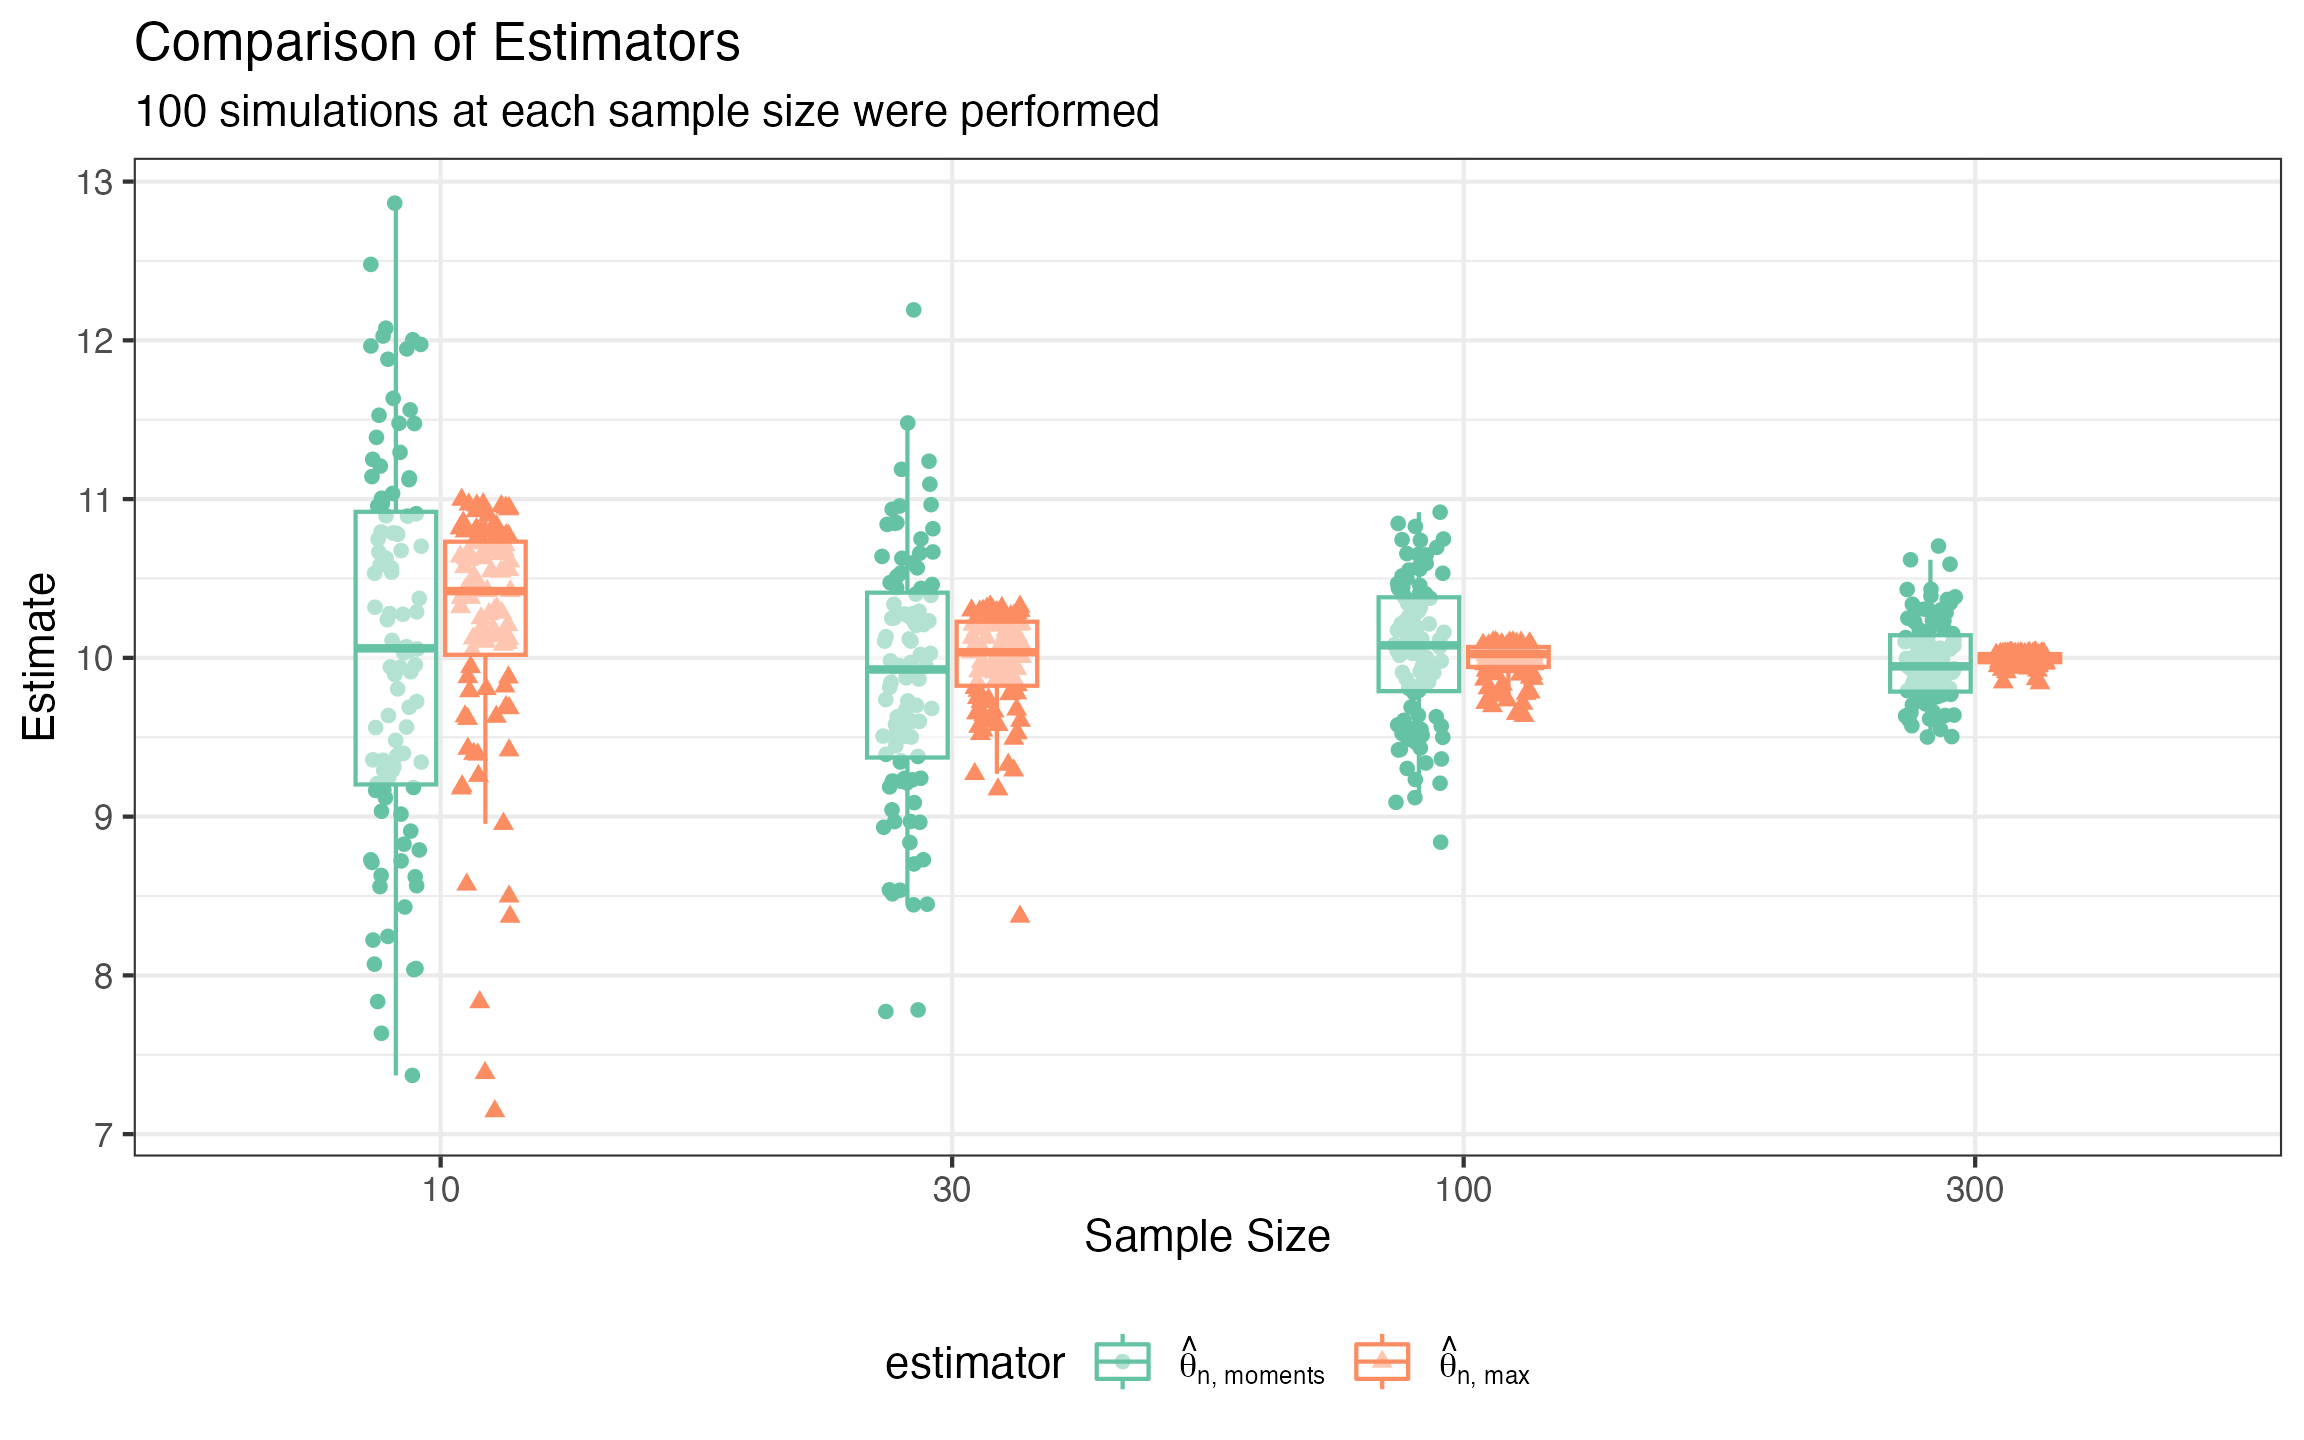
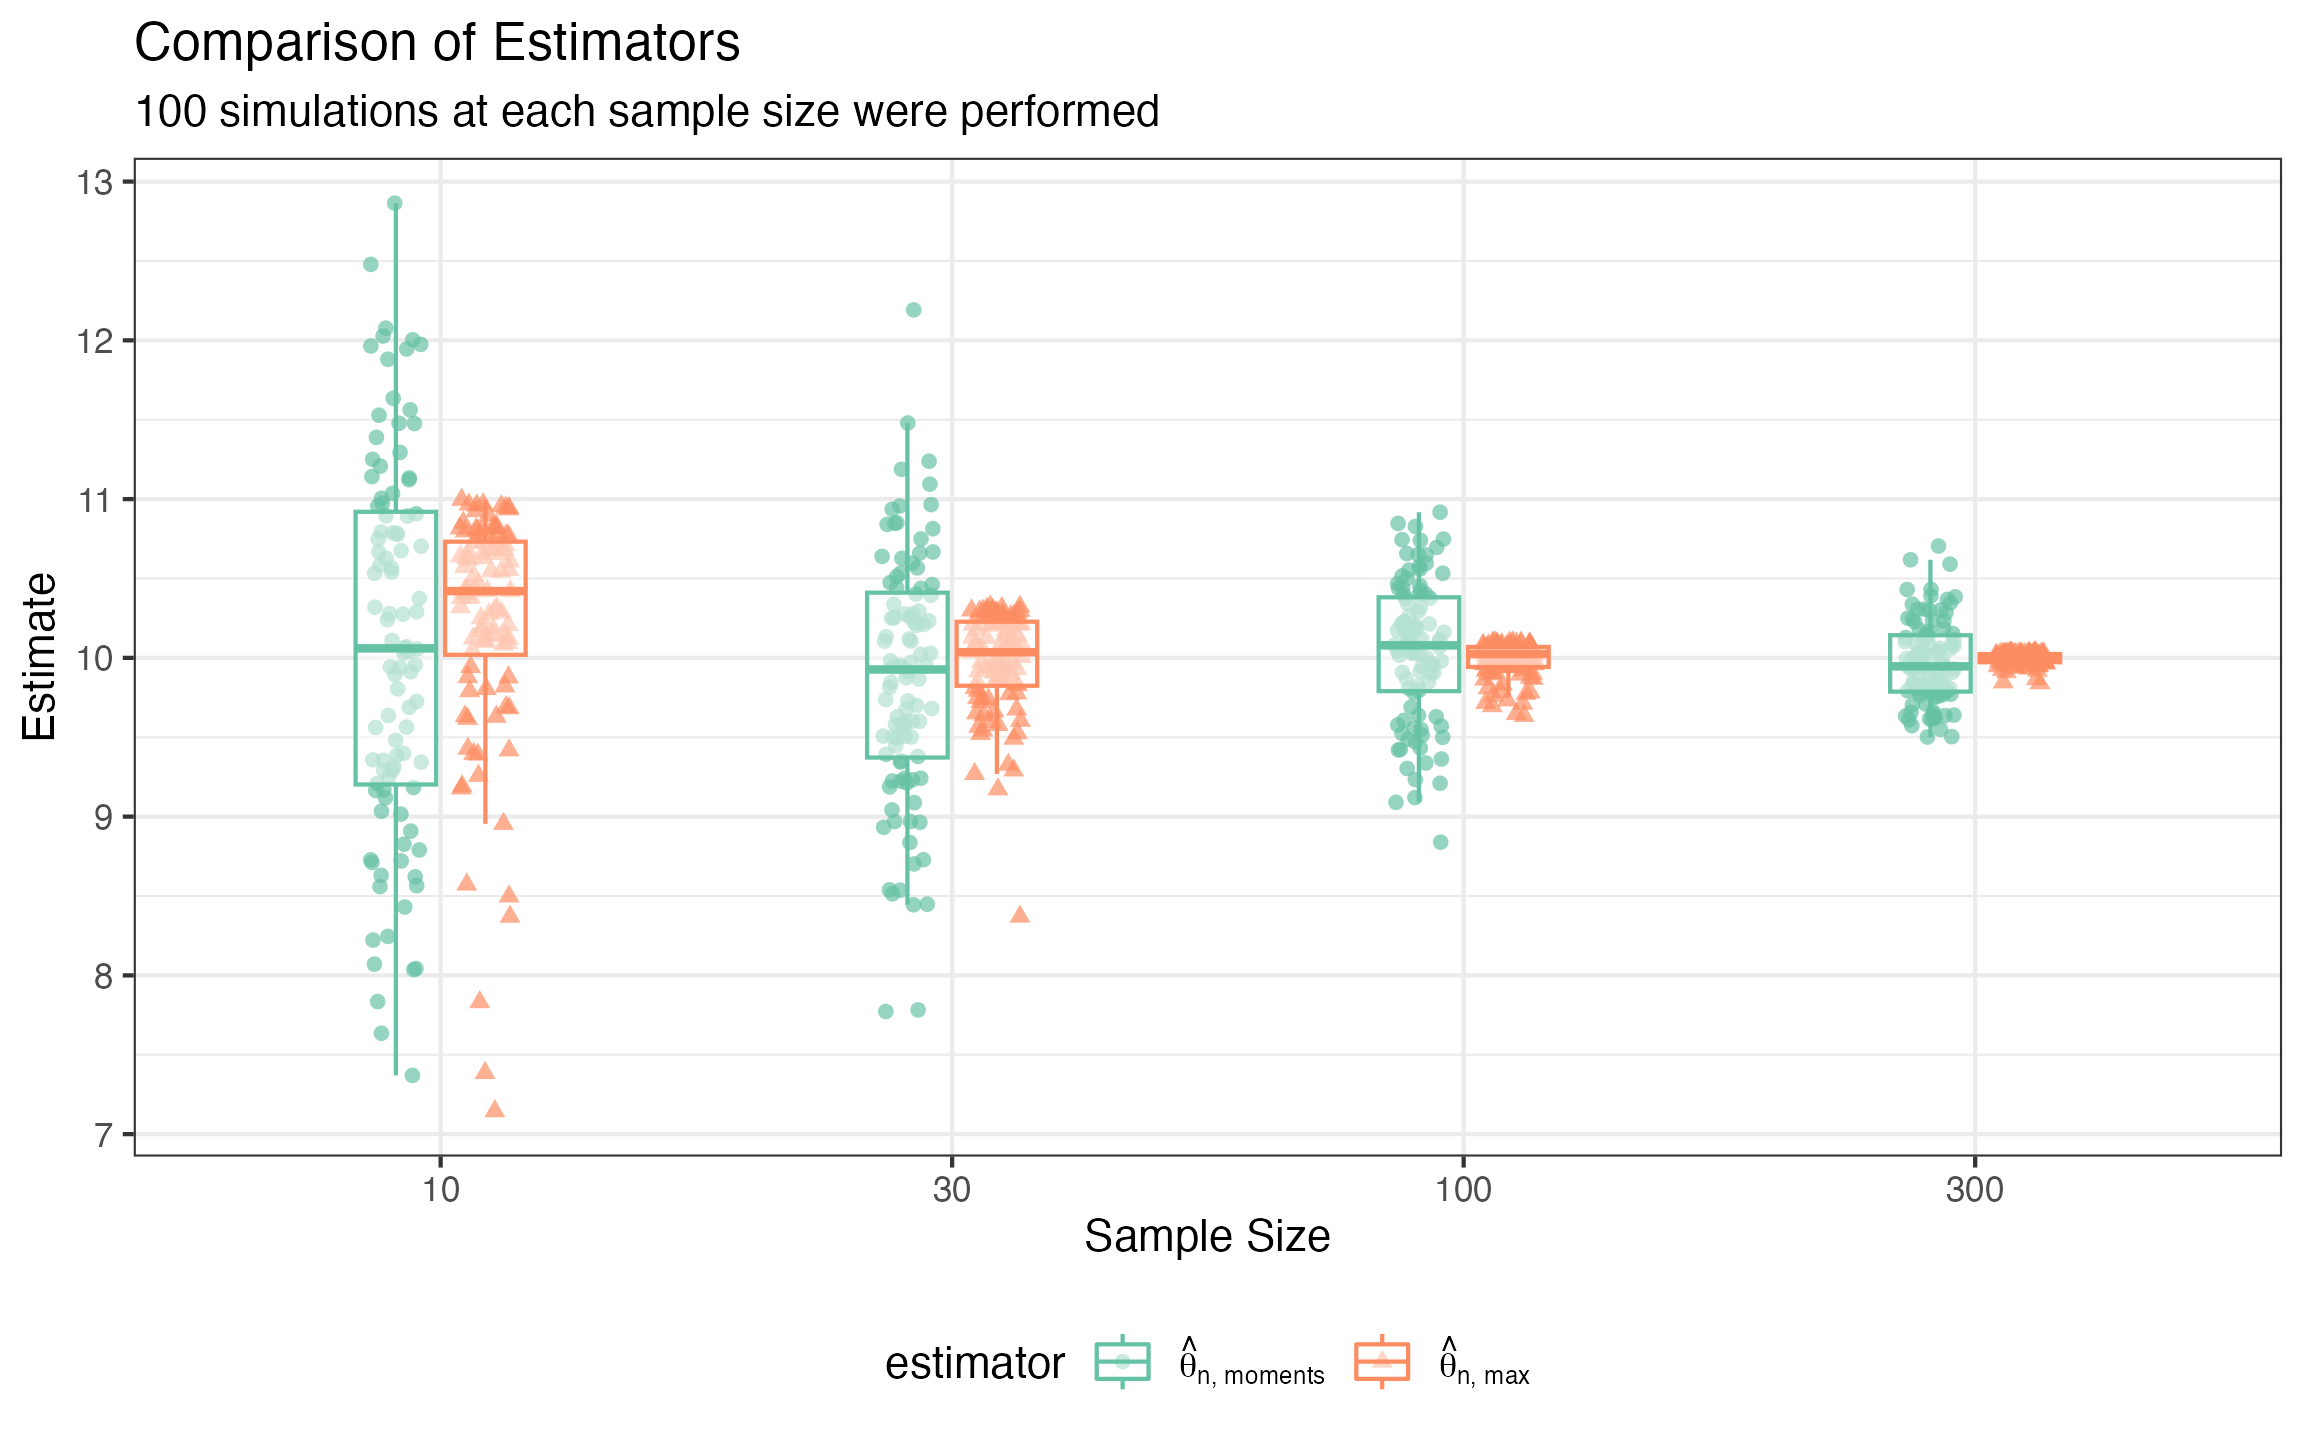
Add run_simulation_study()

diff --git a/docs/reference/run_simulation_study.html b/docs/reference/run_simulation_study.html
@@ -1,0 +1,90 @@
+<!DOCTYPE html>
+<!-- Generated by pkgdown: do not edit by hand --><html lang="en"><head><meta http-equiv="Content-Type" content="text/html; charset=UTF-8"><meta charset="utf-8"><meta http-equiv="X-UA-Compatible" content="IE=edge"><meta name="viewport" content="width=device-width, initial-scale=1, shrink-to-fit=no"><title>Simulation Study — run_simulation_study • Simulacron3</title><!-- favicons --><link rel="icon" type="image/png" sizes="16x16" href="../favicon-16x16.png"><link rel="icon" type="image/png" sizes="32x32" href="../favicon-32x32.png"><link rel="apple-touch-icon" type="image/png" sizes="180x180" href="../apple-touch-icon.png"><link rel="apple-touch-icon" type="image/png" sizes="120x120" href="../apple-touch-icon-120x120.png"><link rel="apple-touch-icon" type="image/png" sizes="76x76" href="../apple-touch-icon-76x76.png"><link rel="apple-touch-icon" type="image/png" sizes="60x60" href="../apple-touch-icon-60x60.png"><script src="../deps/jquery-3.6.0/jquery-3.6.0.min.js"></script><meta name="viewport" content="width=device-width, initial-scale=1, shrink-to-fit=no"><link href="../deps/bootstrap-5.3.1/bootstrap.min.css" rel="stylesheet"><script src="../deps/bootstrap-5.3.1/bootstrap.bundle.min.js"></script><link href="../deps/font-awesome-6.4.0/css/all.min.css" rel="stylesheet"><link href="../deps/font-awesome-6.4.0/css/v4-shims.min.css" rel="stylesheet"><script src="../deps/headroom-0.11.0/headroom.min.js"></script><script src="../deps/headroom-0.11.0/jQuery.headroom.min.js"></script><script src="../deps/bootstrap-toc-1.0.1/bootstrap-toc.min.js"></script><script src="../deps/clipboard.js-2.0.11/clipboard.min.js"></script><script src="../deps/search-1.0.0/autocomplete.jquery.min.js"></script><script src="../deps/search-1.0.0/fuse.min.js"></script><script src="../deps/search-1.0.0/mark.min.js"></script><!-- pkgdown --><script src="../pkgdown.js"></script><meta property="og:title" content="Simulation Study — run_simulation_study"><meta name="description" content="Often we are interested in seeing how estimators perform as we vary the
+sample size. Additionally, support through ... is allowed for passing any
+extra configuration options to the simulation"><meta property="og:description" content="Often we are interested in seeing how estimators perform as we vary the
+sample size. Additionally, support through ... is allowed for passing any
+extra configuration options to the simulation"><meta property="og:image" content="https://ctesta01.github.io/Simulacron3/logo.png"><style> img.logo { width: 200px !important; } </style></head><body>
+    <a href="#main" class="visually-hidden-focusable">Skip to contents</a>
+
+
+    <nav class="navbar navbar-expand-lg fixed-top bg-light" data-bs-theme="light" aria-label="Site navigation"><div class="container">
+
+    <a class="navbar-brand me-2" href="../index.html">Simulacron3</a>
+
+    <small class="nav-text text-muted me-auto" data-bs-toggle="tooltip" data-bs-placement="bottom" title="">0.0.001</small>
+
+
+    <button class="navbar-toggler" type="button" data-bs-toggle="collapse" data-bs-target="#navbar" aria-controls="navbar" aria-expanded="false" aria-label="Toggle navigation">
+      <span class="navbar-toggler-icon"></span>
+    </button>
+
+    <div id="navbar" class="collapse navbar-collapse ms-3">
+      <ul class="navbar-nav me-auto"><li class="active nav-item"><a class="nav-link" href="../reference/index.html">Reference</a></li>
+<li class="nav-item dropdown">
+  <button class="nav-link dropdown-toggle" type="button" id="dropdown-articles" data-bs-toggle="dropdown" aria-expanded="false" aria-haspopup="true">Articles</button>
+  <ul class="dropdown-menu" aria-labelledby="dropdown-articles"><li><a class="dropdown-item" href="../articles/Comparing-Estimators.html">Comparing Estimators</a></li>
+  </ul></li>
+      </ul><ul class="navbar-nav"><li class="nav-item"><form class="form-inline" role="search">
+ <input class="form-control" type="search" name="search-input" id="search-input" autocomplete="off" aria-label="Search site" placeholder="Search for" data-search-index="../search.json"></form></li>
+      </ul></div>
+
+
+  </div>
+</nav><div class="container template-reference-topic">
+<div class="row">
+  <main id="main" class="col-md-9"><div class="page-header">
+      <img src="../logo.png" class="logo" alt=""><h1>Simulation Study</h1>
+
+      <div class="d-none name"><code>run_simulation_study.Rd</code></div>
+    </div>
+
+    <div class="ref-description section level2">
+    <p>Often we are interested in seeing how estimators perform as we vary the
+sample size. Additionally, support through <code>...</code> is allowed for passing any
+extra configuration options to the simulation</p>
+    </div>
+
+    <div class="section level2">
+    <h2 id="ref-usage">Usage<a class="anchor" aria-label="anchor" href="#ref-usage"></a></h2>
+    <div class="sourceCode"><pre class="sourceCode r"><code><span><span class="fu">run_simulation_study</span><span class="op">(</span><span class="va">sim</span>, <span class="va">sample_sizes</span>, extra_config_changes <span class="op">=</span> <span class="cn">NULL</span><span class="op">)</span></span></code></pre></div>
+    </div>
+
+    <div class="section level2">
+    <h2 id="arguments">Arguments<a class="anchor" aria-label="anchor" href="#arguments"></a></h2>
+
+
+<dl><dt id="arg-sim">sim<a class="anchor" aria-label="anchor" href="#arg-sim"></a></dt>
+<dd><p>A <code><a href="Simulation.html">Simulacron3::Simulation</a></code> object</p></dd>
+
+
+<dt id="arg-sample-sizes">sample_sizes<a class="anchor" aria-label="anchor" href="#arg-sample-sizes"></a></dt>
+<dd><p>Sample sizes (integers) to simulate</p></dd>
+
+
+<dt id="arg-extra-config-changes">extra_config_changes<a class="anchor" aria-label="anchor" href="#arg-extra-config-changes"></a></dt>
+<dd><p>Any additional config changes that are needed during
+simulation; should be iterable and of the same length as sample_sizes.
+the ith extra_config_changes</p></dd>
+
+</dl></div>
+
+  </main><aside class="col-md-3"><nav id="toc" aria-label="Table of contents"><h2>On this page</h2>
+    </nav></aside></div>
+
+
+    <footer><div class="pkgdown-footer-left">
+  <p>Developed by Christian Testa.</p>
+</div>
+
+<div class="pkgdown-footer-right">
+  <p>Site built with <a href="https://pkgdown.r-lib.org/" class="external-link">pkgdown</a> 2.1.1.</p>
+</div>
+
+    </footer></div>
+
+
+
+
+
+  </body></html>
+

diff --git a/docs/articles/Comparing-Estimators.html b/docs/articles/Comparing-Estimators.html
@@ -128,16 +128,10 @@ order statistic based estimator empirically using
 <span></span>
 <span><span class="co"># run the simulation over a variety of sample sizes</span></span>
 <span><span class="va">sample_sizes</span> <span class="op">&lt;-</span> <span class="fu"><a href="https://rdrr.io/r/base/c.html" class="external-link">c</a></span><span class="op">(</span><span class="fl">10</span>, <span class="fl">30</span>, <span class="fl">100</span>, <span class="fl">300</span><span class="op">)</span></span>
-<span><span class="kw">for</span> <span class="op">(</span><span class="va">i</span> <span class="kw">in</span> <span class="fl">1</span><span class="op">:</span><span class="fu"><a href="https://rdrr.io/r/base/length.html" class="external-link">length</a></span><span class="op">(</span><span class="va">sample_sizes</span><span class="op">)</span><span class="op">)</span> <span class="op">{</span></span>
-<span>  <span class="va">sim</span><span class="op">$</span><span class="fu">set_config</span><span class="op">(</span><span class="fu"><a href="https://rdrr.io/r/base/list.html" class="external-link">list</a></span><span class="op">(</span>sample_size <span class="op">=</span> <span class="va">sample_sizes</span><span class="op">[</span><span class="va">i</span><span class="op">]</span><span class="op">)</span><span class="op">)</span></span>
-<span>  <span class="va">sim</span><span class="op">$</span><span class="fu">run</span><span class="op">(</span><span class="op">)</span></span>
-<span>  <span class="va">results</span><span class="op">[[</span><span class="va">i</span><span class="op">]</span><span class="op">]</span> <span class="op">&lt;-</span></span>
-<span>    <span class="fu">dplyr</span><span class="fu">::</span><span class="fu"><a href="https://dplyr.tidyverse.org/reference/bind_cols.html" class="external-link">bind_cols</a></span><span class="op">(</span>sample_size <span class="op">=</span> <span class="va">sample_sizes</span><span class="op">[</span><span class="va">i</span><span class="op">]</span>, <span class="va">sim</span><span class="op">$</span><span class="fu">get_results</span><span class="op">(</span><span class="op">)</span><span class="op">)</span></span>
-<span><span class="op">}</span></span>
+<span><span class="va">results</span> <span class="op">&lt;-</span> <span class="fu">Simulacron3</span><span class="fu">::</span><span class="fu"><a href="../reference/run_simulation_study.html">run_simulation_study</a></span><span class="op">(</span><span class="va">sim</span>, <span class="va">sample_sizes</span><span class="op">)</span></span>
 <span></span>
 <span><span class="co"># combine our results together and pivot for ggplot2</span></span>
 <span><span class="va">results</span> <span class="op">&lt;-</span> <span class="va">results</span> <span class="op">|&gt;</span></span>
-<span>  <span class="fu">dplyr</span><span class="fu">::</span><span class="fu"><a href="https://dplyr.tidyverse.org/reference/bind_rows.html" class="external-link">bind_rows</a></span><span class="op">(</span><span class="op">)</span> <span class="op">|&gt;</span></span>
 <span>  <span class="fu">tidyr</span><span class="fu">::</span><span class="fu"><a href="https://tidyr.tidyverse.org/reference/pivot_longer.html" class="external-link">pivot_longer</a></span><span class="op">(</span></span>
 <span>    cols <span class="op">=</span> <span class="fu"><a href="https://tidyselect.r-lib.org/reference/starts_with.html" class="external-link">starts_with</a></span><span class="op">(</span><span class="st">'estimator'</span><span class="op">)</span>,</span>
 <span>    values_to <span class="op">=</span> <span class="st">'estimate'</span>,</span>
@@ -156,7 +150,10 @@ order statistic based estimator empirically using
 <span>    color <span class="op">=</span> <span class="va">estimator</span>,</span>
 <span>    shape <span class="op">=</span> <span class="va">estimator</span></span>
 <span>  <span class="op">)</span><span class="op">)</span> <span class="op">+</span></span>
-<span>  <span class="fu"><a href="https://ggplot2.tidyverse.org/reference/geom_jitter.html" class="external-link">geom_jitter</a></span><span class="op">(</span>position <span class="op">=</span> <span class="fu"><a href="https://ggplot2.tidyverse.org/reference/position_jitterdodge.html" class="external-link">position_jitterdodge</a></span><span class="op">(</span>dodge.width <span class="op">=</span> <span class="fl">.35</span>, jitter.width <span class="op">=</span> <span class="fl">.10</span><span class="op">)</span><span class="op">)</span> <span class="op">+</span></span>
+<span>  <span class="fu"><a href="https://ggplot2.tidyverse.org/reference/geom_jitter.html" class="external-link">geom_jitter</a></span><span class="op">(</span></span>
+<span>    position <span class="op">=</span> <span class="fu"><a href="https://ggplot2.tidyverse.org/reference/position_jitterdodge.html" class="external-link">position_jitterdodge</a></span><span class="op">(</span>dodge.width <span class="op">=</span> <span class="fl">.35</span>, </span>
+<span>                                    jitter.width <span class="op">=</span> <span class="fl">.10</span><span class="op">)</span>,</span>
+<span>    alpha <span class="op">=</span> <span class="fl">.7</span><span class="op">)</span> <span class="op">+</span></span>
 <span>  <span class="fu"><a href="https://ggplot2.tidyverse.org/reference/geom_boxplot.html" class="external-link">geom_boxplot</a></span><span class="op">(</span>outlier.color <span class="op">=</span> <span class="cn">NA</span>,</span>
 <span>               alpha <span class="op">=</span> <span class="fl">0.5</span>,</span>
 <span>               width <span class="op">=</span> <span class="fl">.35</span><span class="op">)</span> <span class="op">+</span></span>

diff --git a/docs/reference/Simulation.html b/docs/reference/Simulation.html
@@ -69,8 +69,7 @@ of the estimators considered). This is represented by the following pipeline:</p
 
 <dt><code>config</code></dt>
 <dd><p>A list containing at least the number of <code>replications</code> to
-perform, the <code>sample_size</code> to use, whether or not the simulation
-should be <code>quiet</code>, and whether or not to run in <code>parallel</code>.</p></dd>
+perform, the <code>sample_size</code> to use, and whether or not to run in <code>parallel</code>.</p></dd>
 
 
 <dt><code>summary_stats</code></dt>
@@ -216,7 +215,7 @@ output from the data generating process <code>self$dgp</code>.</p></dd>
 <p></p><div class="arguments"><dl><dt><code>config_list</code></dt>
 <dd><p>A list of configuration settings for the simulation.
 The following are used by <code>Simulacron3::Simulation</code> by default:
-<code>replications</code> (integer), <code>sample_size</code>, <code>quiet</code>
+<code>replications</code> (integer), <code>sample_size</code>,
 and <code>parallel</code>.</p></dd>
 
 

diff --git a/docs/reference/index.html b/docs/reference/index.html
@@ -49,6 +49,12 @@
 
         </dt>
         <dd>Simulation R6Class</dd>
+      </dl><dl><dt>
+
+          <code><a href="run_simulation_study.html">run_simulation_study()</a></code>
+
+        </dt>
+        <dd>Simulation Study</dd>
       </dl></div>
   </main></div>
 
